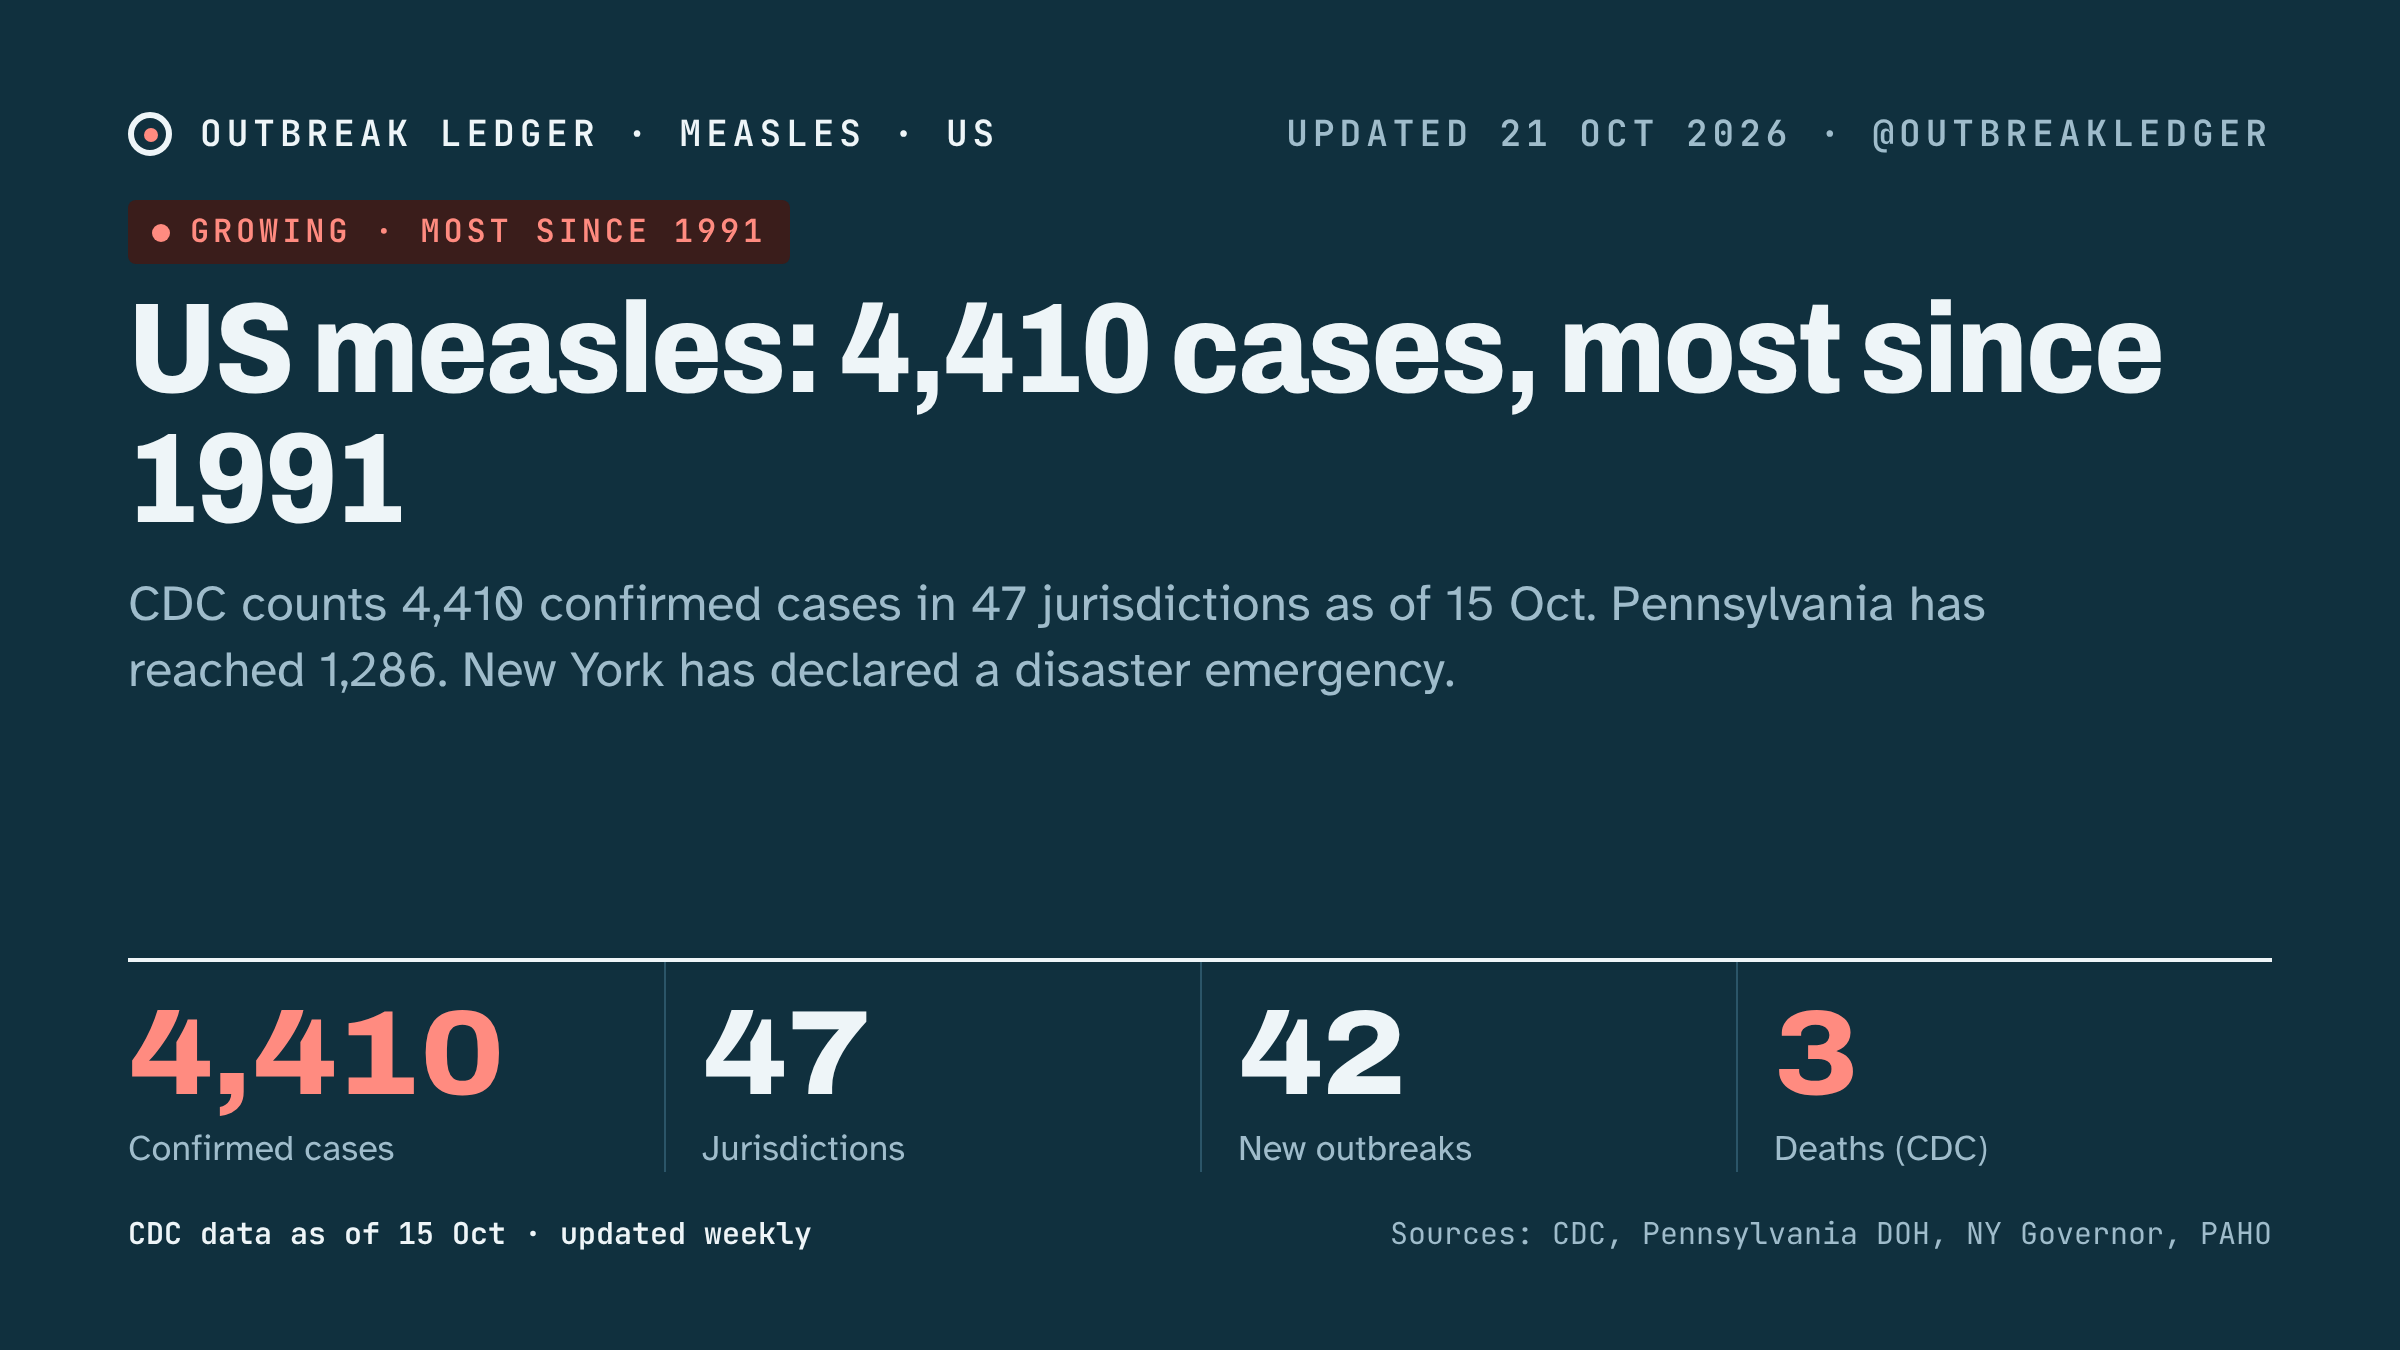
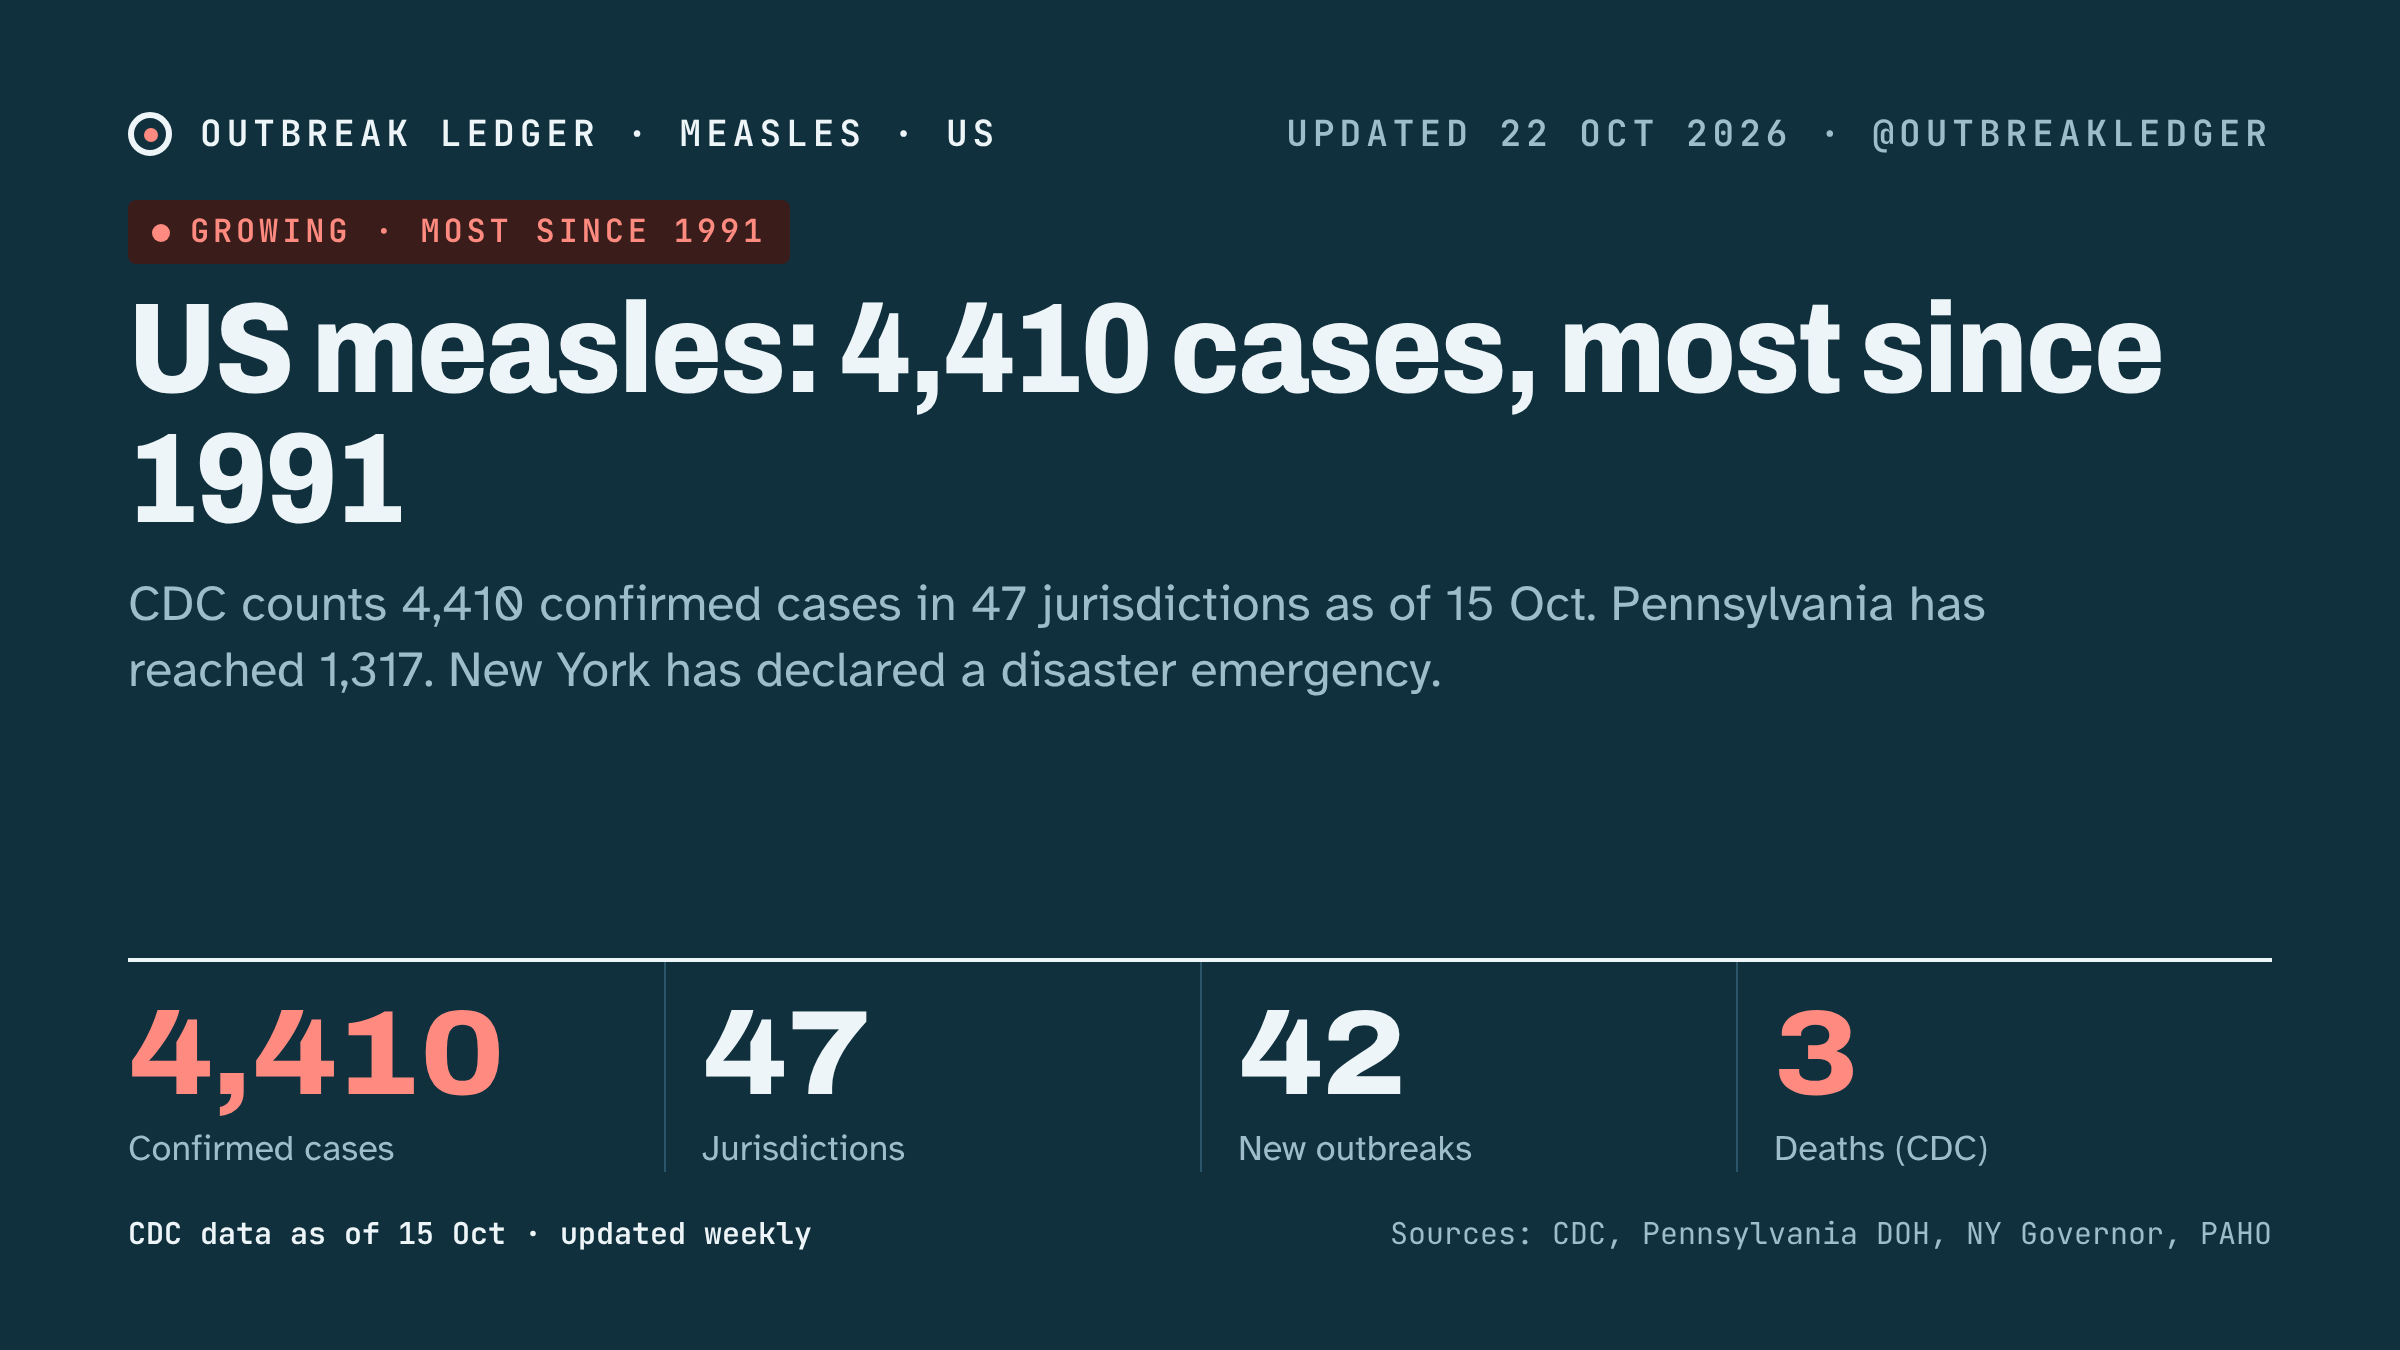
Trackers: Measles Pennsylvania 1,317 cases in 43 counties; Ebola, mpox, cholera, dengue, Marburg checked, no change
Claude-Session: https://claude.ai/code/session_01DjK934MGj4uKY77RiACNyU

Changed region(s): [[0.1562, 0.4667, 0.5938, 0.5289]]

diff --git a/site/measles/share/latest-post.md b/site/measles/share/latest-post.md
@@ -1,5 +1,5 @@
-US measles: CDC now counts three deaths this year, up from two, after death-certificate verification. CDC's case count is 4,410 as of 15 Oct; Pennsylvania's own count is five deaths.
+US measles: Pennsylvania's health department reports 1,317 cases in 43 counties, 251 hospitalisations and 5 confirmed deaths (21 Oct). CDC's national count is 4,410 as of 15 Oct.
 
 https://nhlebe1.github.io/ai-scheduler-platform/measles/
 
-Sources: Reuters and Al Jazeera (20 Oct); CDC measles data (15 Oct); Pennsylvania Dept. of Health (19 Oct).
+Sources: Pennsylvania Dept. of Health and Reuters (21 Oct); CDC measles data (15 Oct).
